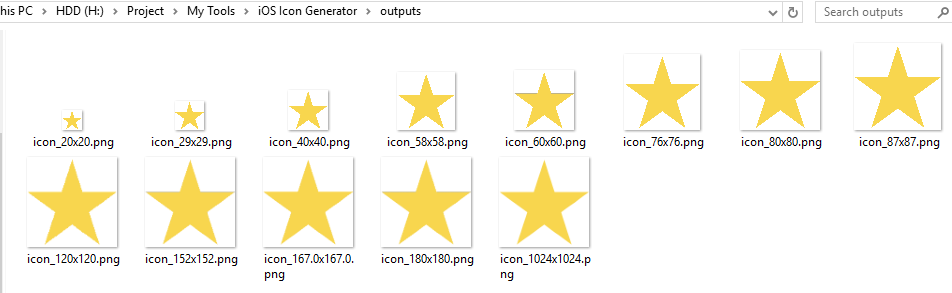
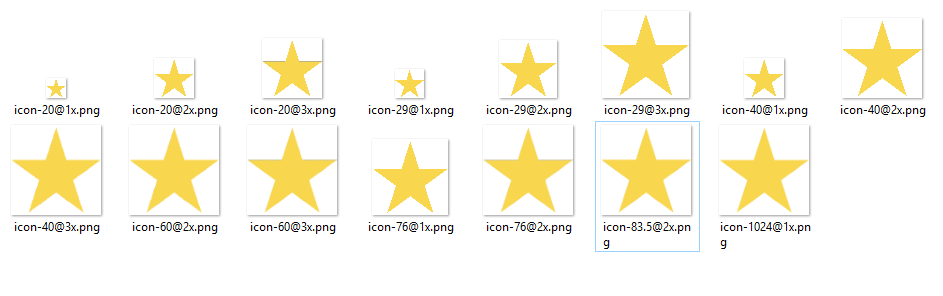
Serious Bugfix, AppIcons with new names

Changed region(s): [[0.0, 0.0, 1.0, 0.9522]]

diff --git a/main.py b/main.py
@@ -20,6 +20,6 @@ if img is not None:
         sizes = [(32,1),(32,2),(32,3)]
     else:
         name = "icon"
-        sizes = [(20,1),(20,2),(20,3),(29,1),(29,2),(29,3),(40,1),(40,2),(40,3),(60,2),(60,3),(76,1),(76,2),(83.5,2),(1024,1024)]
+        sizes = [(20,1),(20,2),(20,3),(29,1),(29,2),(29,3),(40,1),(40,2),(40,3),(60,2),(60,3),(76,1),(76,2),(83.5,2),(1024,1)]
     for size in sizes:
         cv2.imwrite("outputs/"+name+"-"+str(size[0])+"@"+str(size[1])+"x.png", cv2.resize(img,(int(size[0]*size[1]),int(size[0]*size[1]))))
